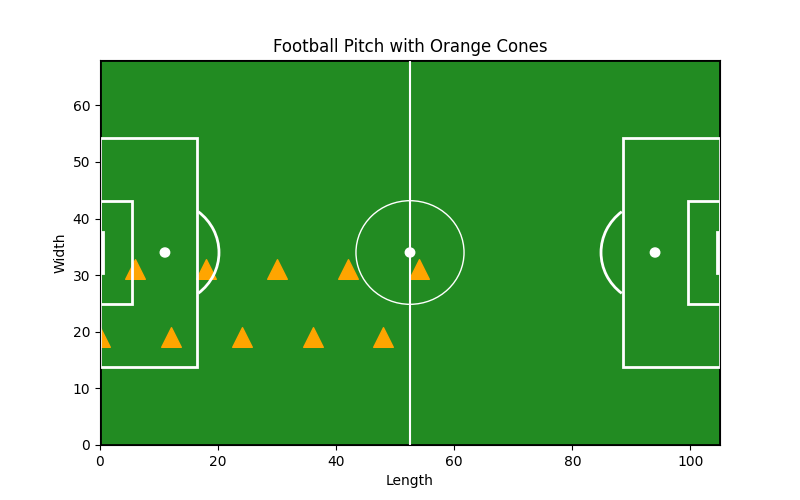
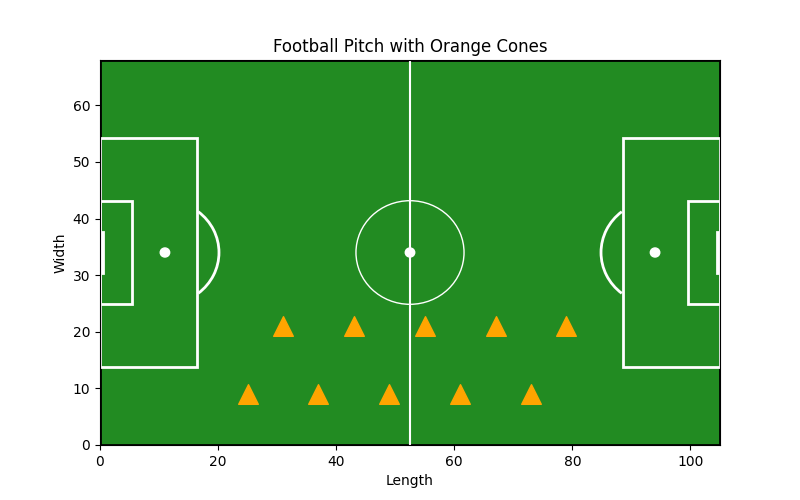
📝 🐛 ✨ feat: update cone position calculations in setupcones.py for zigzag and hollow square layouts

diff --git a/src/setupcones.py b/src/setupcones.py
@@ -13,7 +13,7 @@ class ConeLayoutSetup:
         self.filename = filename
 
     def setup_zigzag(self):
-        cone_positions = [(i * 6, 25 + (i % 2) * 12 - 6) for i in range(10)]
+        cone_positions = [(25 + i * 6, 15 + (i % 2) * 12 - 6) for i in range(10)]
         self._draw_and_save(cone_positions, "zigzag_layout.png")
 
     def setup_diagonal(self):
@@ -29,8 +29,15 @@ class ConeLayoutSetup:
         self._draw_and_save(cone_positions, "column_layout.png")
 
     def setup_square(self):
-        cone_positions = [(i // 2, i % 2) for i in range(20)]
-        self._draw_and_save(cone_positions, "square_layout.png")
+        side_length = 15
+        cone_positions = []
+        for x in range(side_length):
+            cone_positions.append((x, 0))
+            cone_positions.append((x, side_length - 1))
+        for y in range(1, side_length - 1):
+            cone_positions.append((0, y))
+            cone_positions.append((side_length - 1, y))
+        self._draw_and_save(cone_positions, "hollow_square_layout.png")
 
     def _draw_and_save(self, cone_positions, filename):
         drawer = ConeLayoutDrawer(cone_positions, filename)
